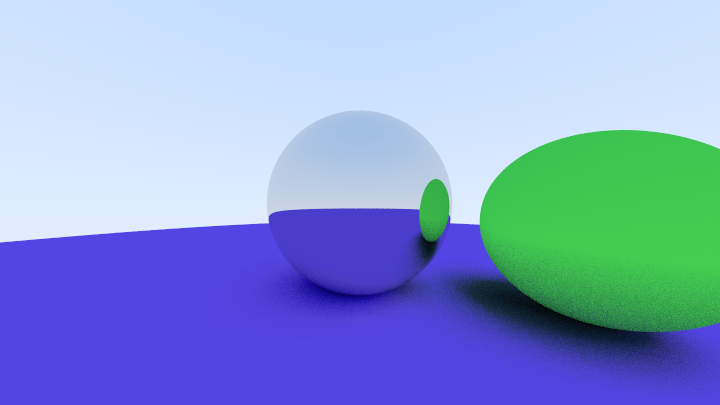
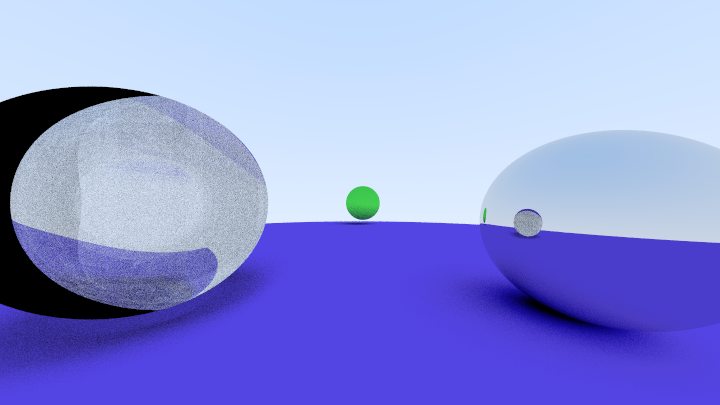
Buggy dieletrics

diff --git a/src/main.rs b/src/main.rs
@@ -27,9 +27,11 @@ fn main() {
     let blue = std::rc::Rc::new(Lambertian { albedo: Color::new(0.2, 0.1, 0.8) });
     let green = std::rc::Rc::new(Lambertian { albedo: Color::new(0.1, 0.8, 0.1) });
     let metal = std::rc::Rc::new(Metal { albedo: Color::new(0.8, 0.8, 0.8), fuzz: 0.0});
+    let glass = std::rc::Rc::new(Dieletric { ir: 1.5 });
 
-    world.add(Sphere::new(Point3::new(0, 0, -1.2), 0.5, metal.clone()));
-    world.add(Sphere::new(Point3::new(1.0, -0.1, -0.9), 0.4, green.clone()));
+    world.add(Sphere::new(Point3::new(-1.0, 0, -1.0), 0.5, glass.clone()));
+    world.add(Sphere::new(Point3::new(0.1, 0, -6.0), 0.5, green.clone()));
+    world.add(Sphere::new(Point3::new(1.0, -0.1, -0.9), 0.4, metal.clone()));
     world.add(Sphere::new(Point3::new(0, -100.5, -1), 100.0, blue.clone()));
 
     // camera

diff --git a/src/material.rs b/src/material.rs
@@ -45,3 +45,27 @@ impl Material for Metal {
         }
     }
 }
+
+pub struct Dieletric {
+    pub ir : f64,
+}
+
+impl Material for Dieletric {
+    fn scatter(&self, r: &Ray, info: HitInfo) -> Option<(Ray, Color)> {
+        let attenuation = Color::new(1.0, 1.0, 1.0);
+
+        let refraction_ratio = if info.front_face {
+            1.0 / self.ir
+        } else {
+            self.ir
+        };
+
+        let scattered = Ray {
+            orig: info.p,
+            dir: utils::refract(r.dir, info.normal, refraction_ratio),
+        };
+
+        Some((scattered, attenuation))
+    }
+}
+

diff --git a/src/utils.rs b/src/utils.rs
@@ -27,3 +27,11 @@ pub fn random_point_in_sphere() -> Point3 {
 pub fn reflect(v: Vec3, n: Vec3) -> Vec3 {
     v - 2.0 * v.dot(n) * n
 }
+
+pub fn refract(v: Vec3, n: Vec3, etai_over_etat: f64) -> Vec3 {
+    let cos_theta = n.dot(-1.0 * v).min(1.0);
+    let out_perp = etai_over_etat * (v + cos_theta * n);
+    let out_parallel = -(1.0 - out_perp.length2()).sqrt() * n;
+
+    out_perp + out_parallel
+}
